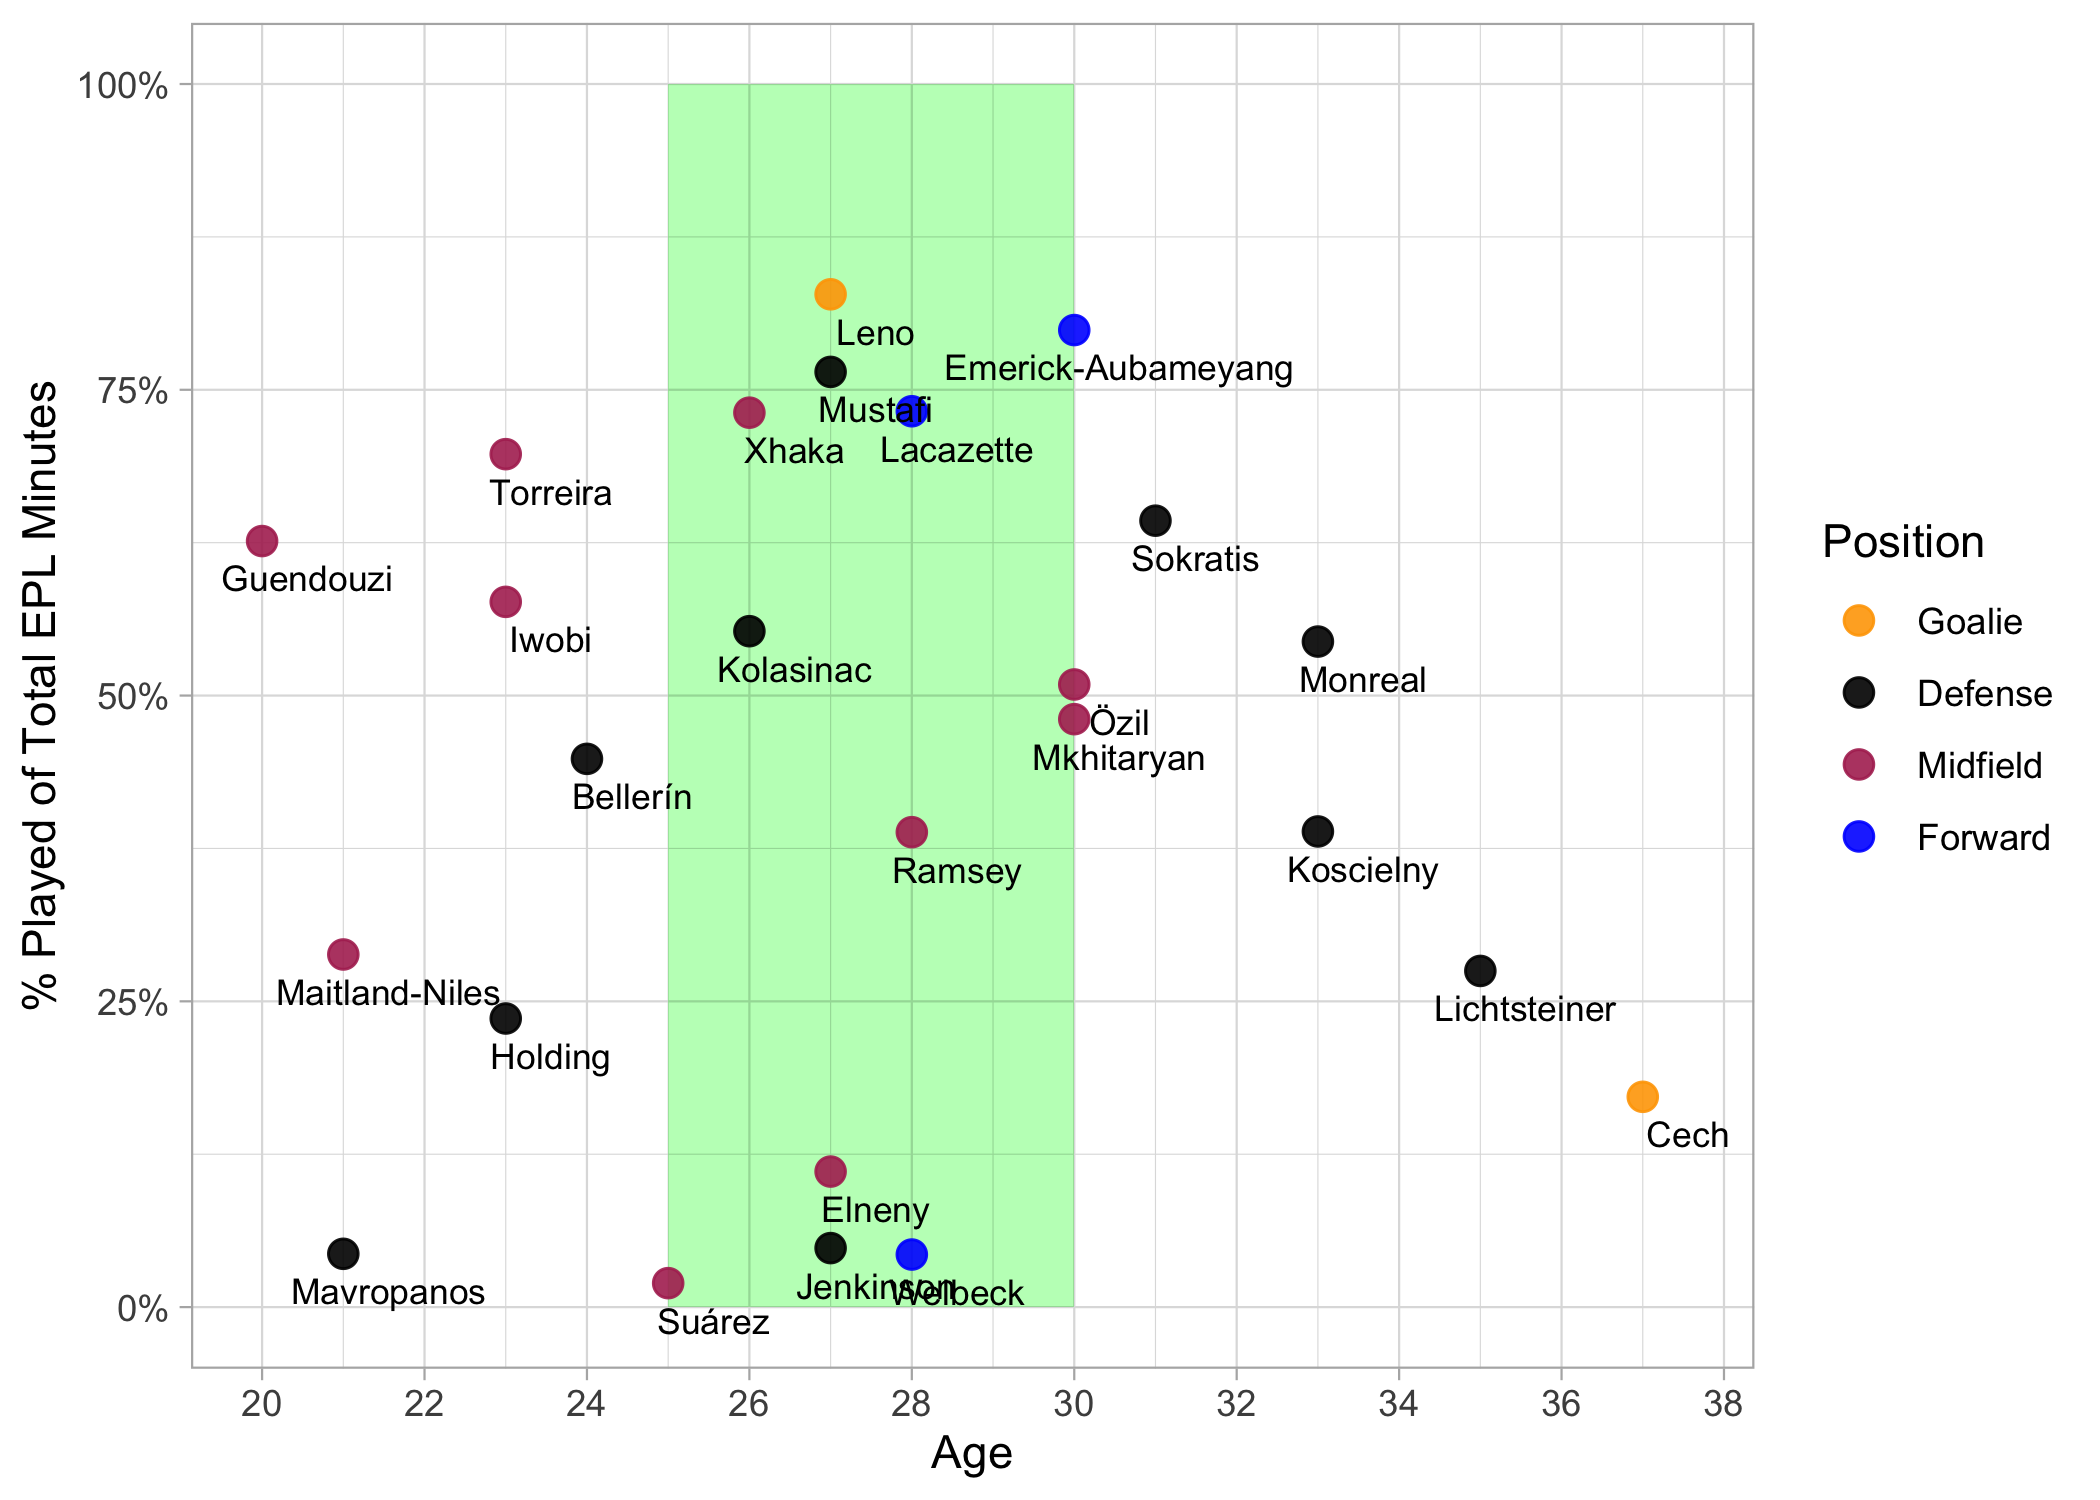
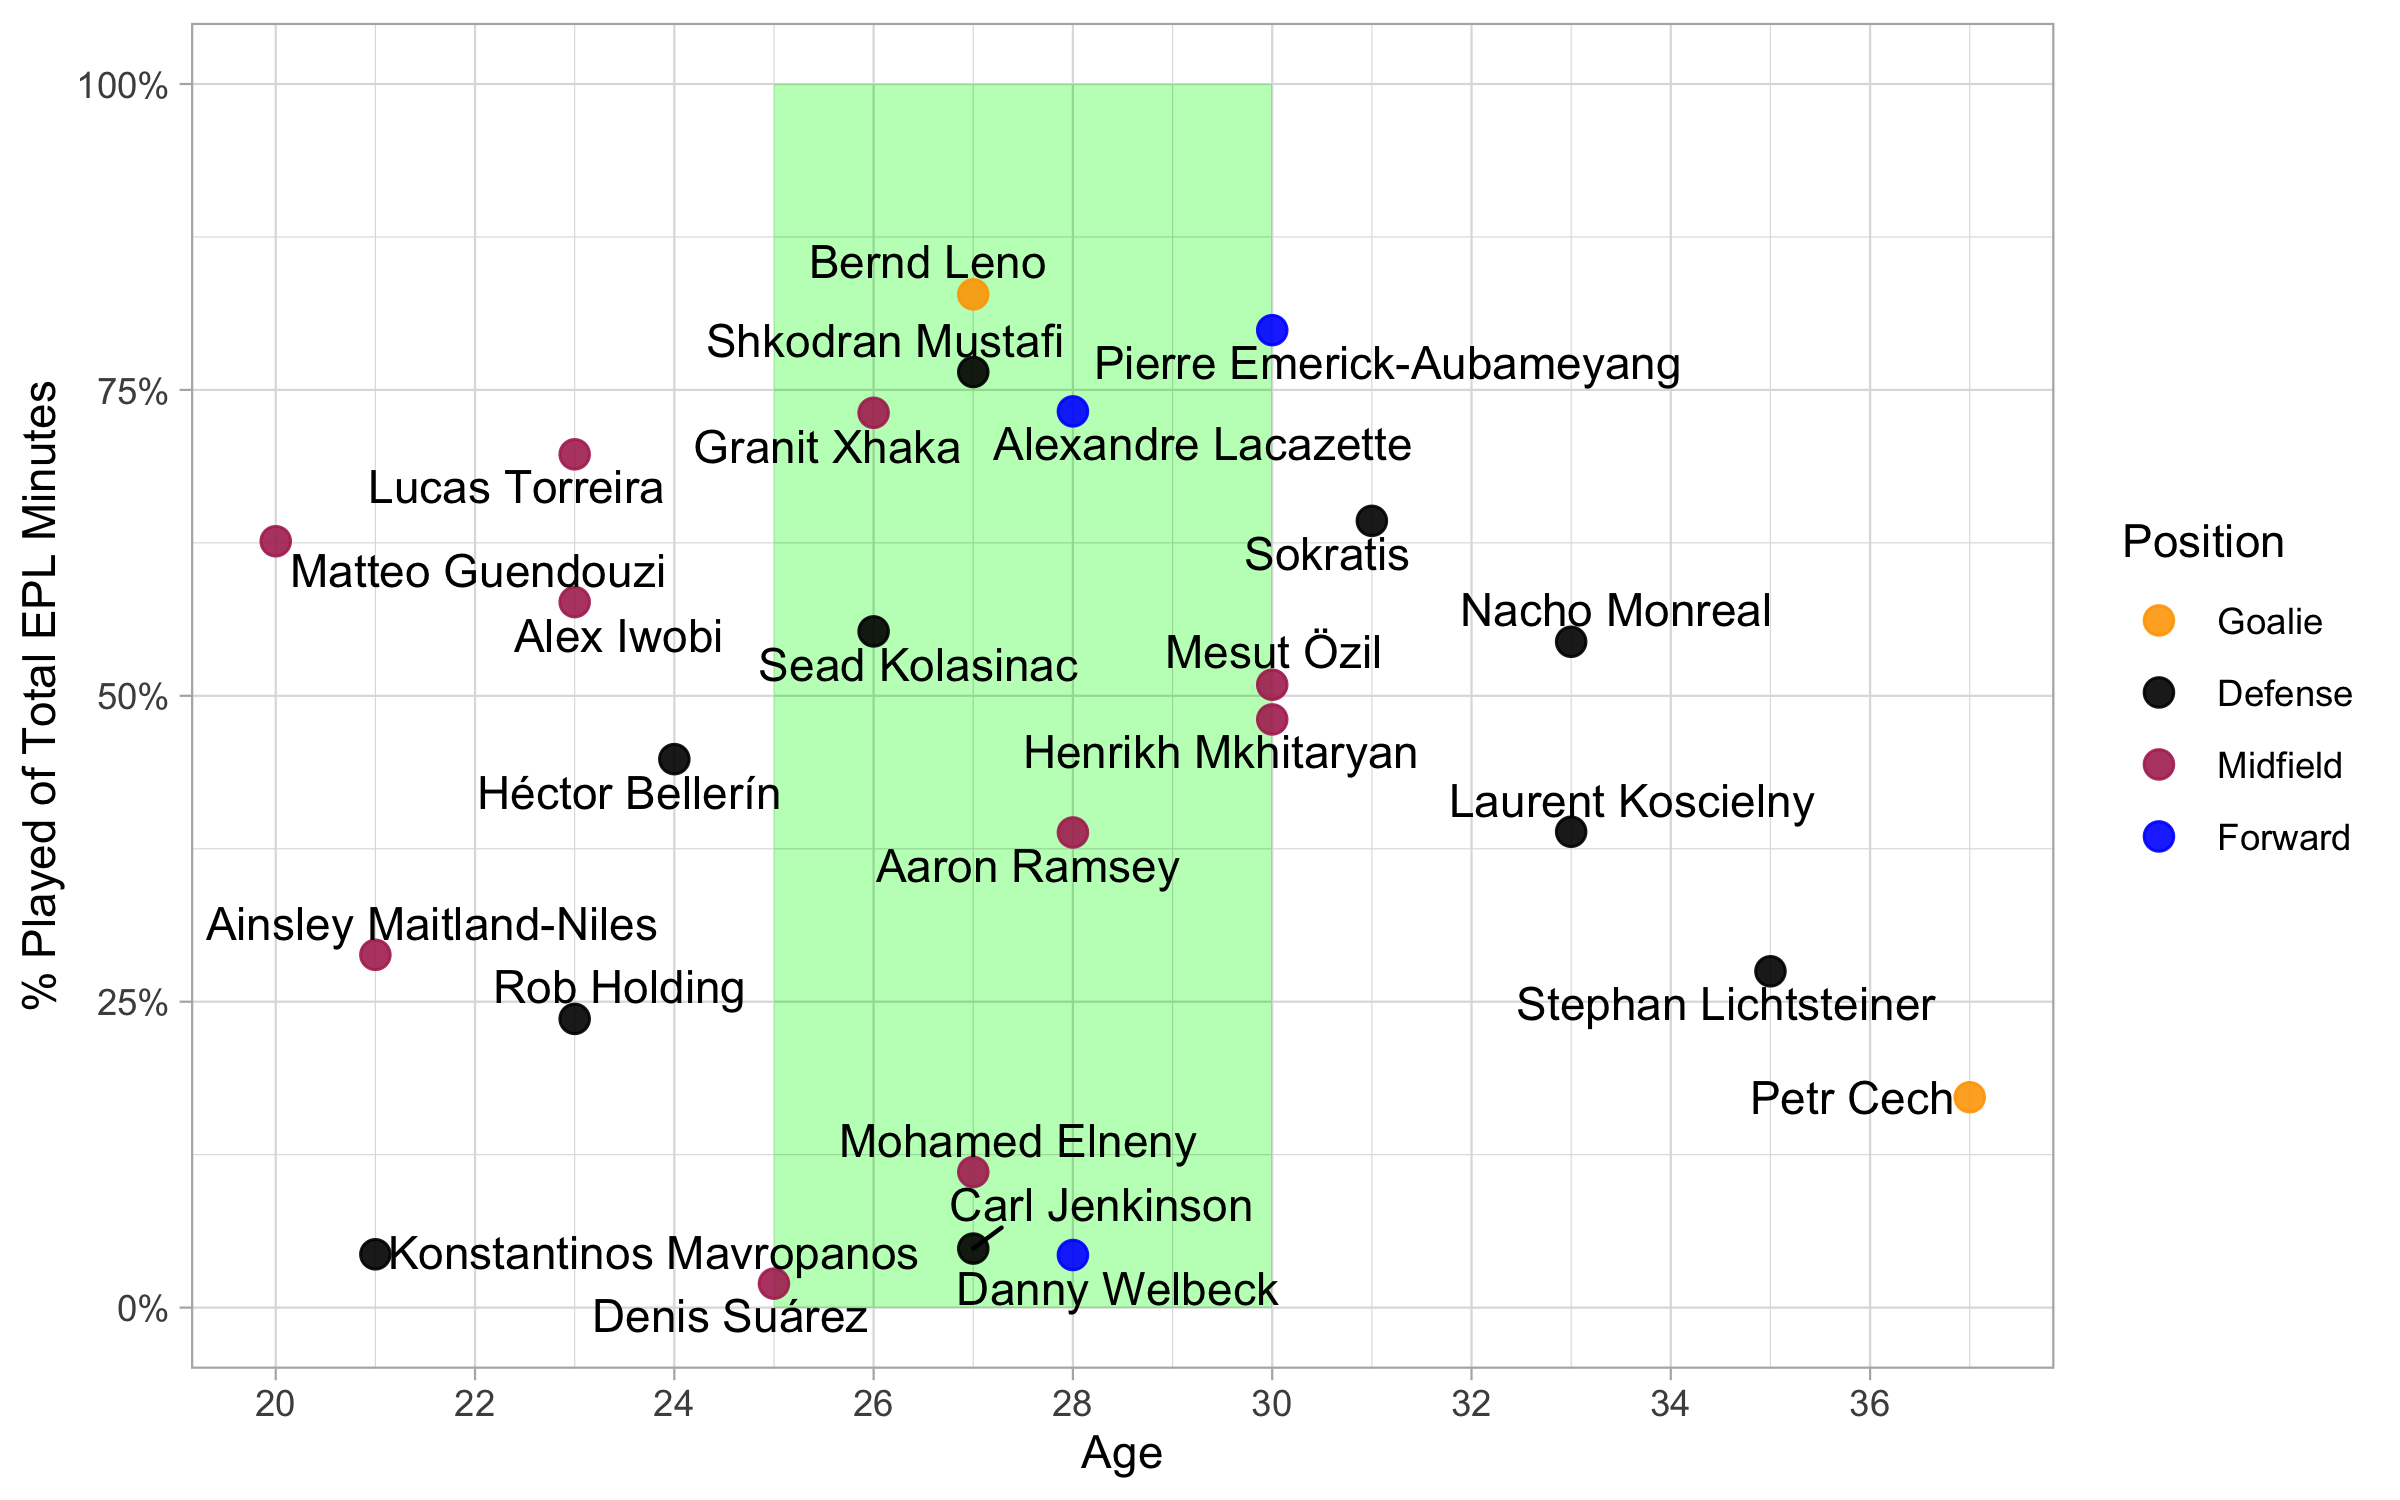
-Switched to using ggrepel package with full name for labels

diff --git a/squad_age_profile_analysis.md b/squad_age_profile_analysis.md
@@ -223,32 +223,27 @@ afc %>%
   labs(y = "% of Total EPL Minutes")
 ```
 
-![](squad_age_profile_analysis_files/figure-markdown_github/unnamed-chunk-13-1.png)
+<img src="squad_age_profile_analysis_files/figure-markdown_github/unnamed-chunk-13-1.png" width="8" />
 
 We can see the graph looks a bit messy with some overlapping names. We
-can use the `check_overlap` property to help deal with this, but I found
-it removed several key players from the graph.
+can use the `ggrepel` package to help clean things up.
 
 Another option to clean things up is by showing only the last-name.
 We’ll use the handy tidyr `extract` function to accomplish this.
 
 ``` r
-afc <- extract(afc, Name, c("fname","lname"), "([^ ]+)(.*)", remove = FALSE)
-
-afc[4, "lname"] = "Sokratis"
-
-p <- afc %>% ggplot(aes(x = Age, y = total_mins/(38*90), label = lname))
+p <- afc %>% ggplot(aes(x = Age, y = total_mins/(38*90)))
 
 p + 
   geom_point(aes(color = Position), size = 3.0, alpha = 0.9) +
-  geom_text(size = 3, vjust = "top", hjust = "middle", nudge_y = -0.02, nudge_x = 0.5) +
+  ggrepel::geom_text_repel(aes(label = Name), hjust = 0.5) +
   scale_color_manual(values = c("orange","black","maroon","blue")) +
   scale_x_continuous(breaks = seq(18,40, by=2)) +
   scale_y_continuous(labels = scales::percent_format()) +
   labs(y = "% Played of Total EPL Minutes")
 ```
 
-![](squad_age_profile_analysis_files/figure-markdown_github/unnamed-chunk-14-1.png)
+<img src="squad_age_profile_analysis_files/figure-markdown_github/unnamed-chunk-14-1.png" width="8" />
 
 This looks good but let’s go one-step farther by adding a shaded region
 showing the peak age-bracket which we’ll define as from 25 - 30 years
@@ -258,7 +253,7 @@ old.
 p <- p +
   geom_rect(fill = "green", alpha = 0.01, aes(xmin=25, xmax=30, ymin=0, ymax=1)) +
   geom_point(aes(color = Position), size = 3.0, alpha = 0.9) +
-  geom_text(size = 3, vjust = "top", hjust = "middle", nudge_y = -0.02, nudge_x = 0.5) +
+  ggrepel::geom_text_repel(aes(label = Name), hjust = 0.5) +
   scale_color_manual(values = c("orange","black","maroon","blue")) +
   scale_x_continuous(breaks = seq(18,40, by=2)) +
   scale_y_continuous(labels = scales::percent_format()) +
@@ -267,7 +262,7 @@ p <- p +
 p
 ```
 
-![](squad_age_profile_analysis_files/figure-markdown_github/unnamed-chunk-15-1.png)
+<img src="squad_age_profile_analysis_files/figure-markdown_github/unnamed-chunk-15-1.png" width="8" />
 
 we’ll wrap up by adding a title and some annotations.
 
@@ -280,4 +275,4 @@ p + labs(
   annotate("text", x = 28, y = 0.95, label = "Peak Years", size = 4.0)
 ```
 
-![](squad_age_profile_analysis_files/figure-markdown_github/unnamed-chunk-16-1.png)
+<img src="squad_age_profile_analysis_files/figure-markdown_github/unnamed-chunk-16-1.png" width="8" />
